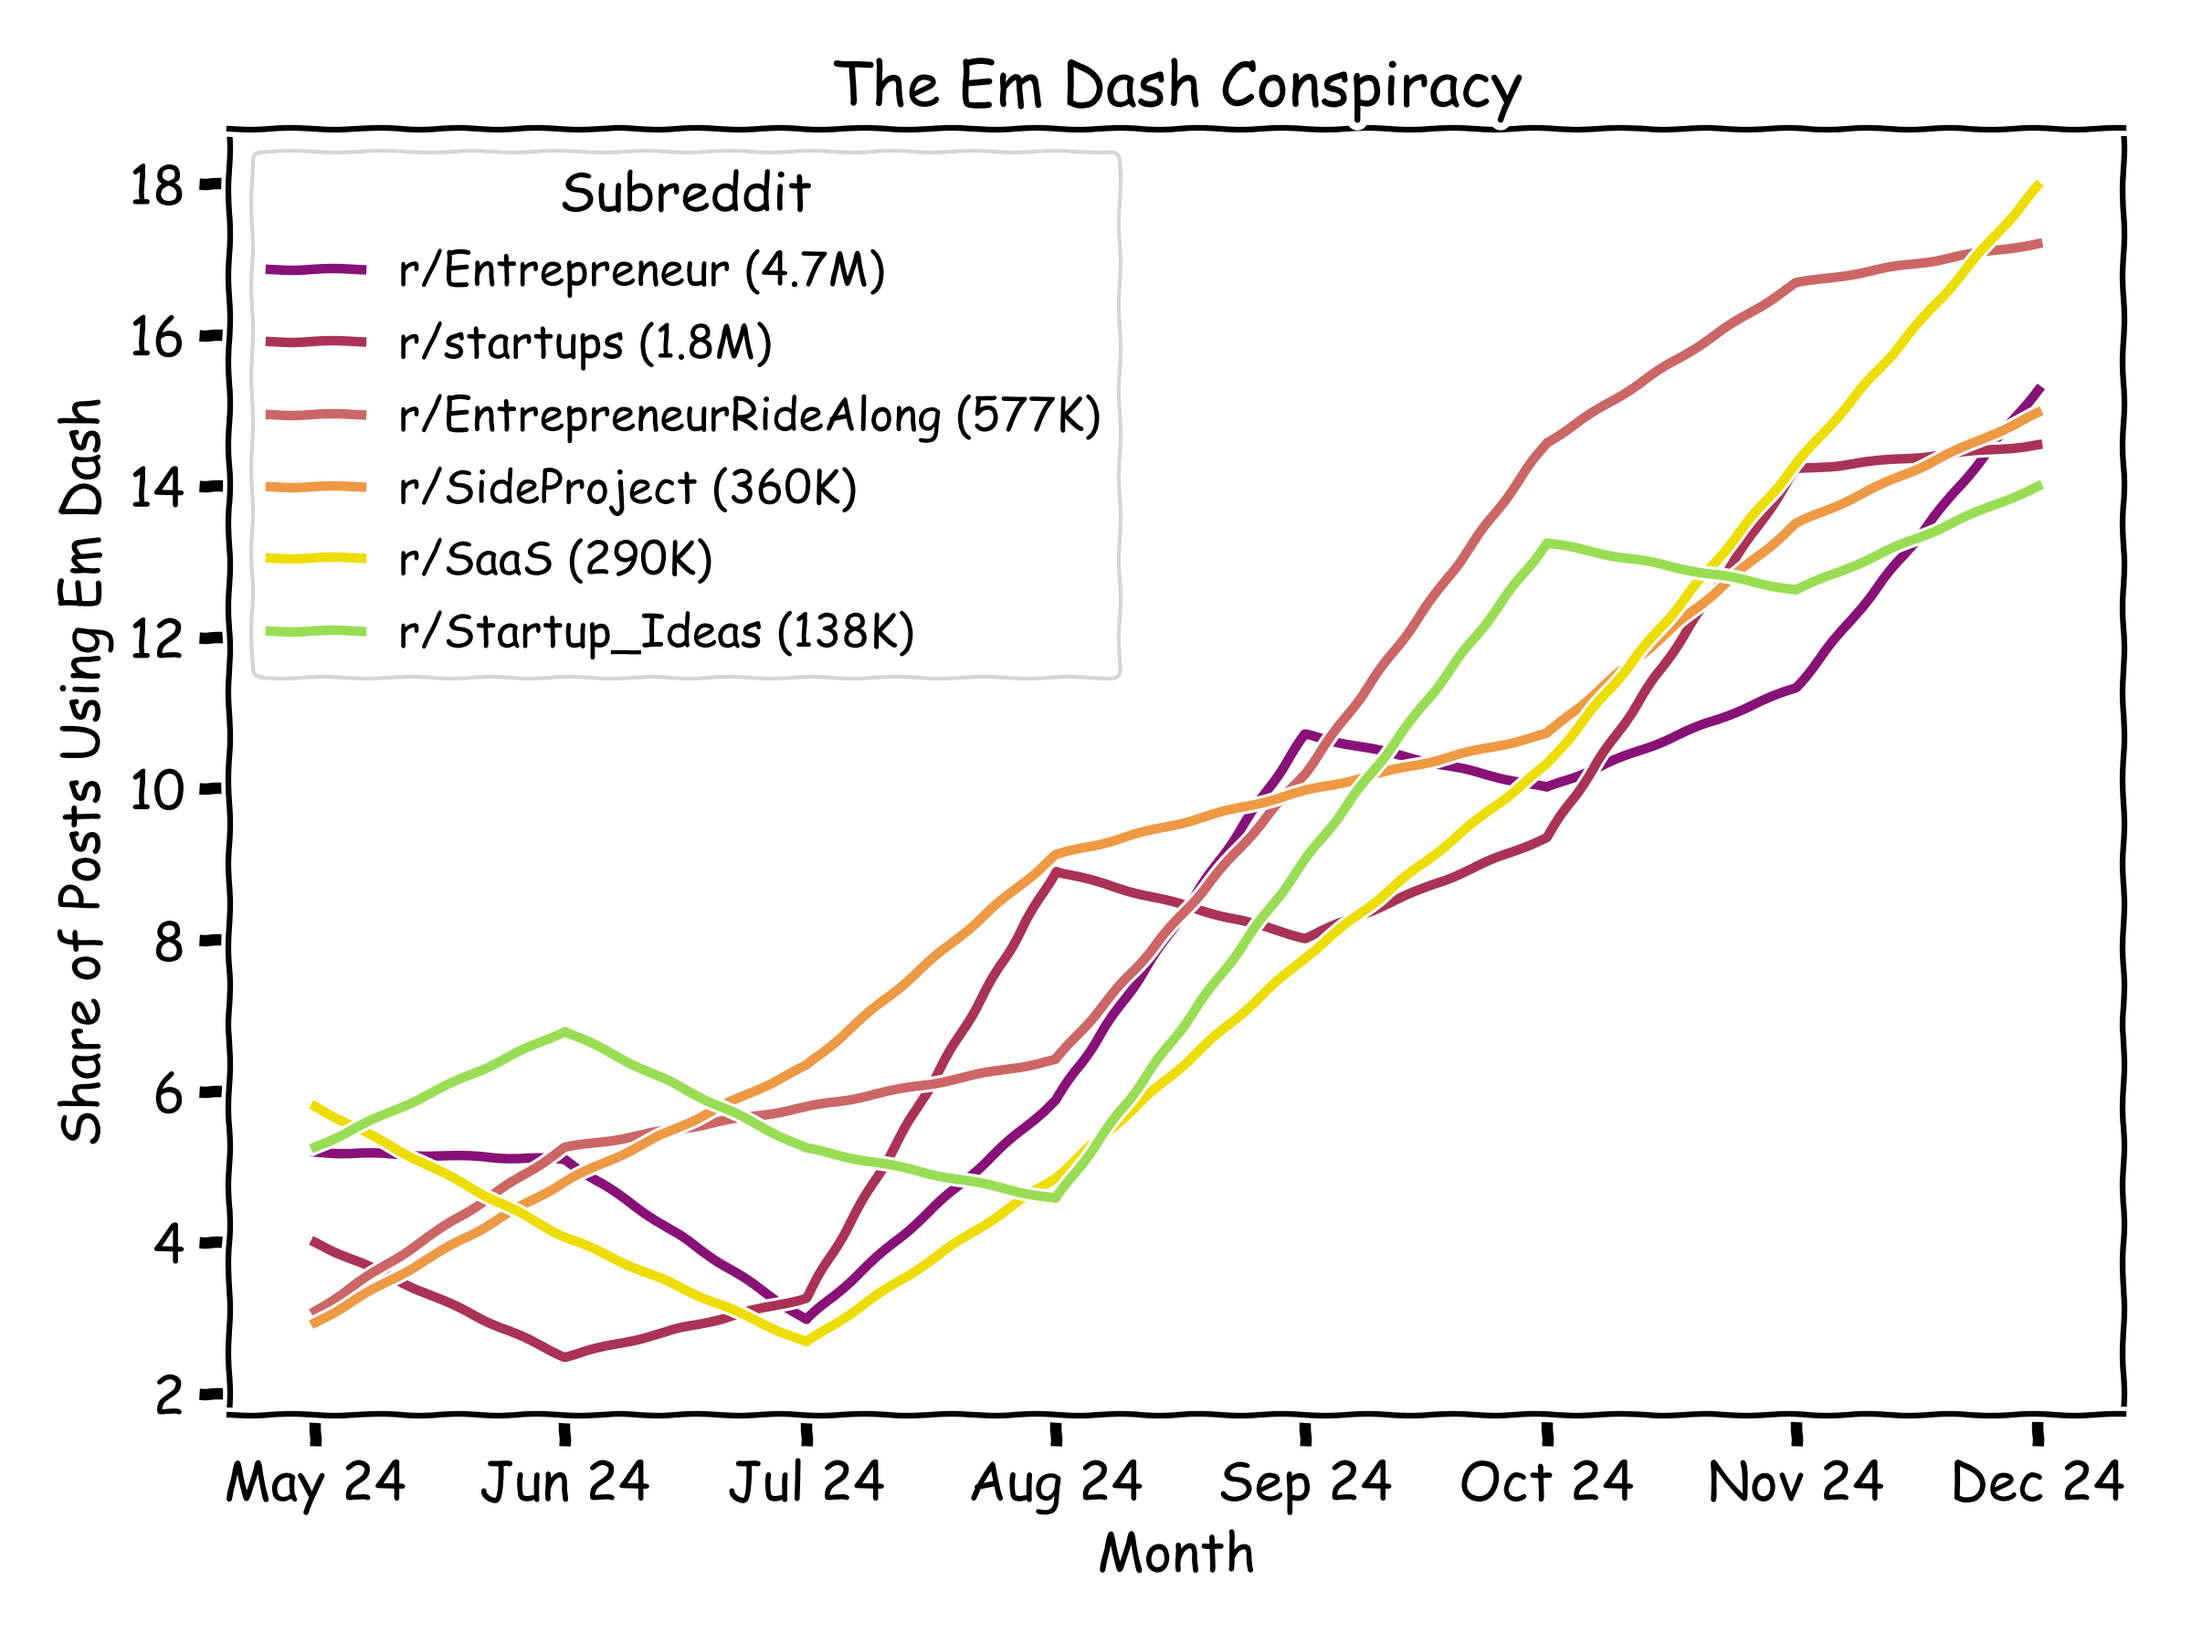
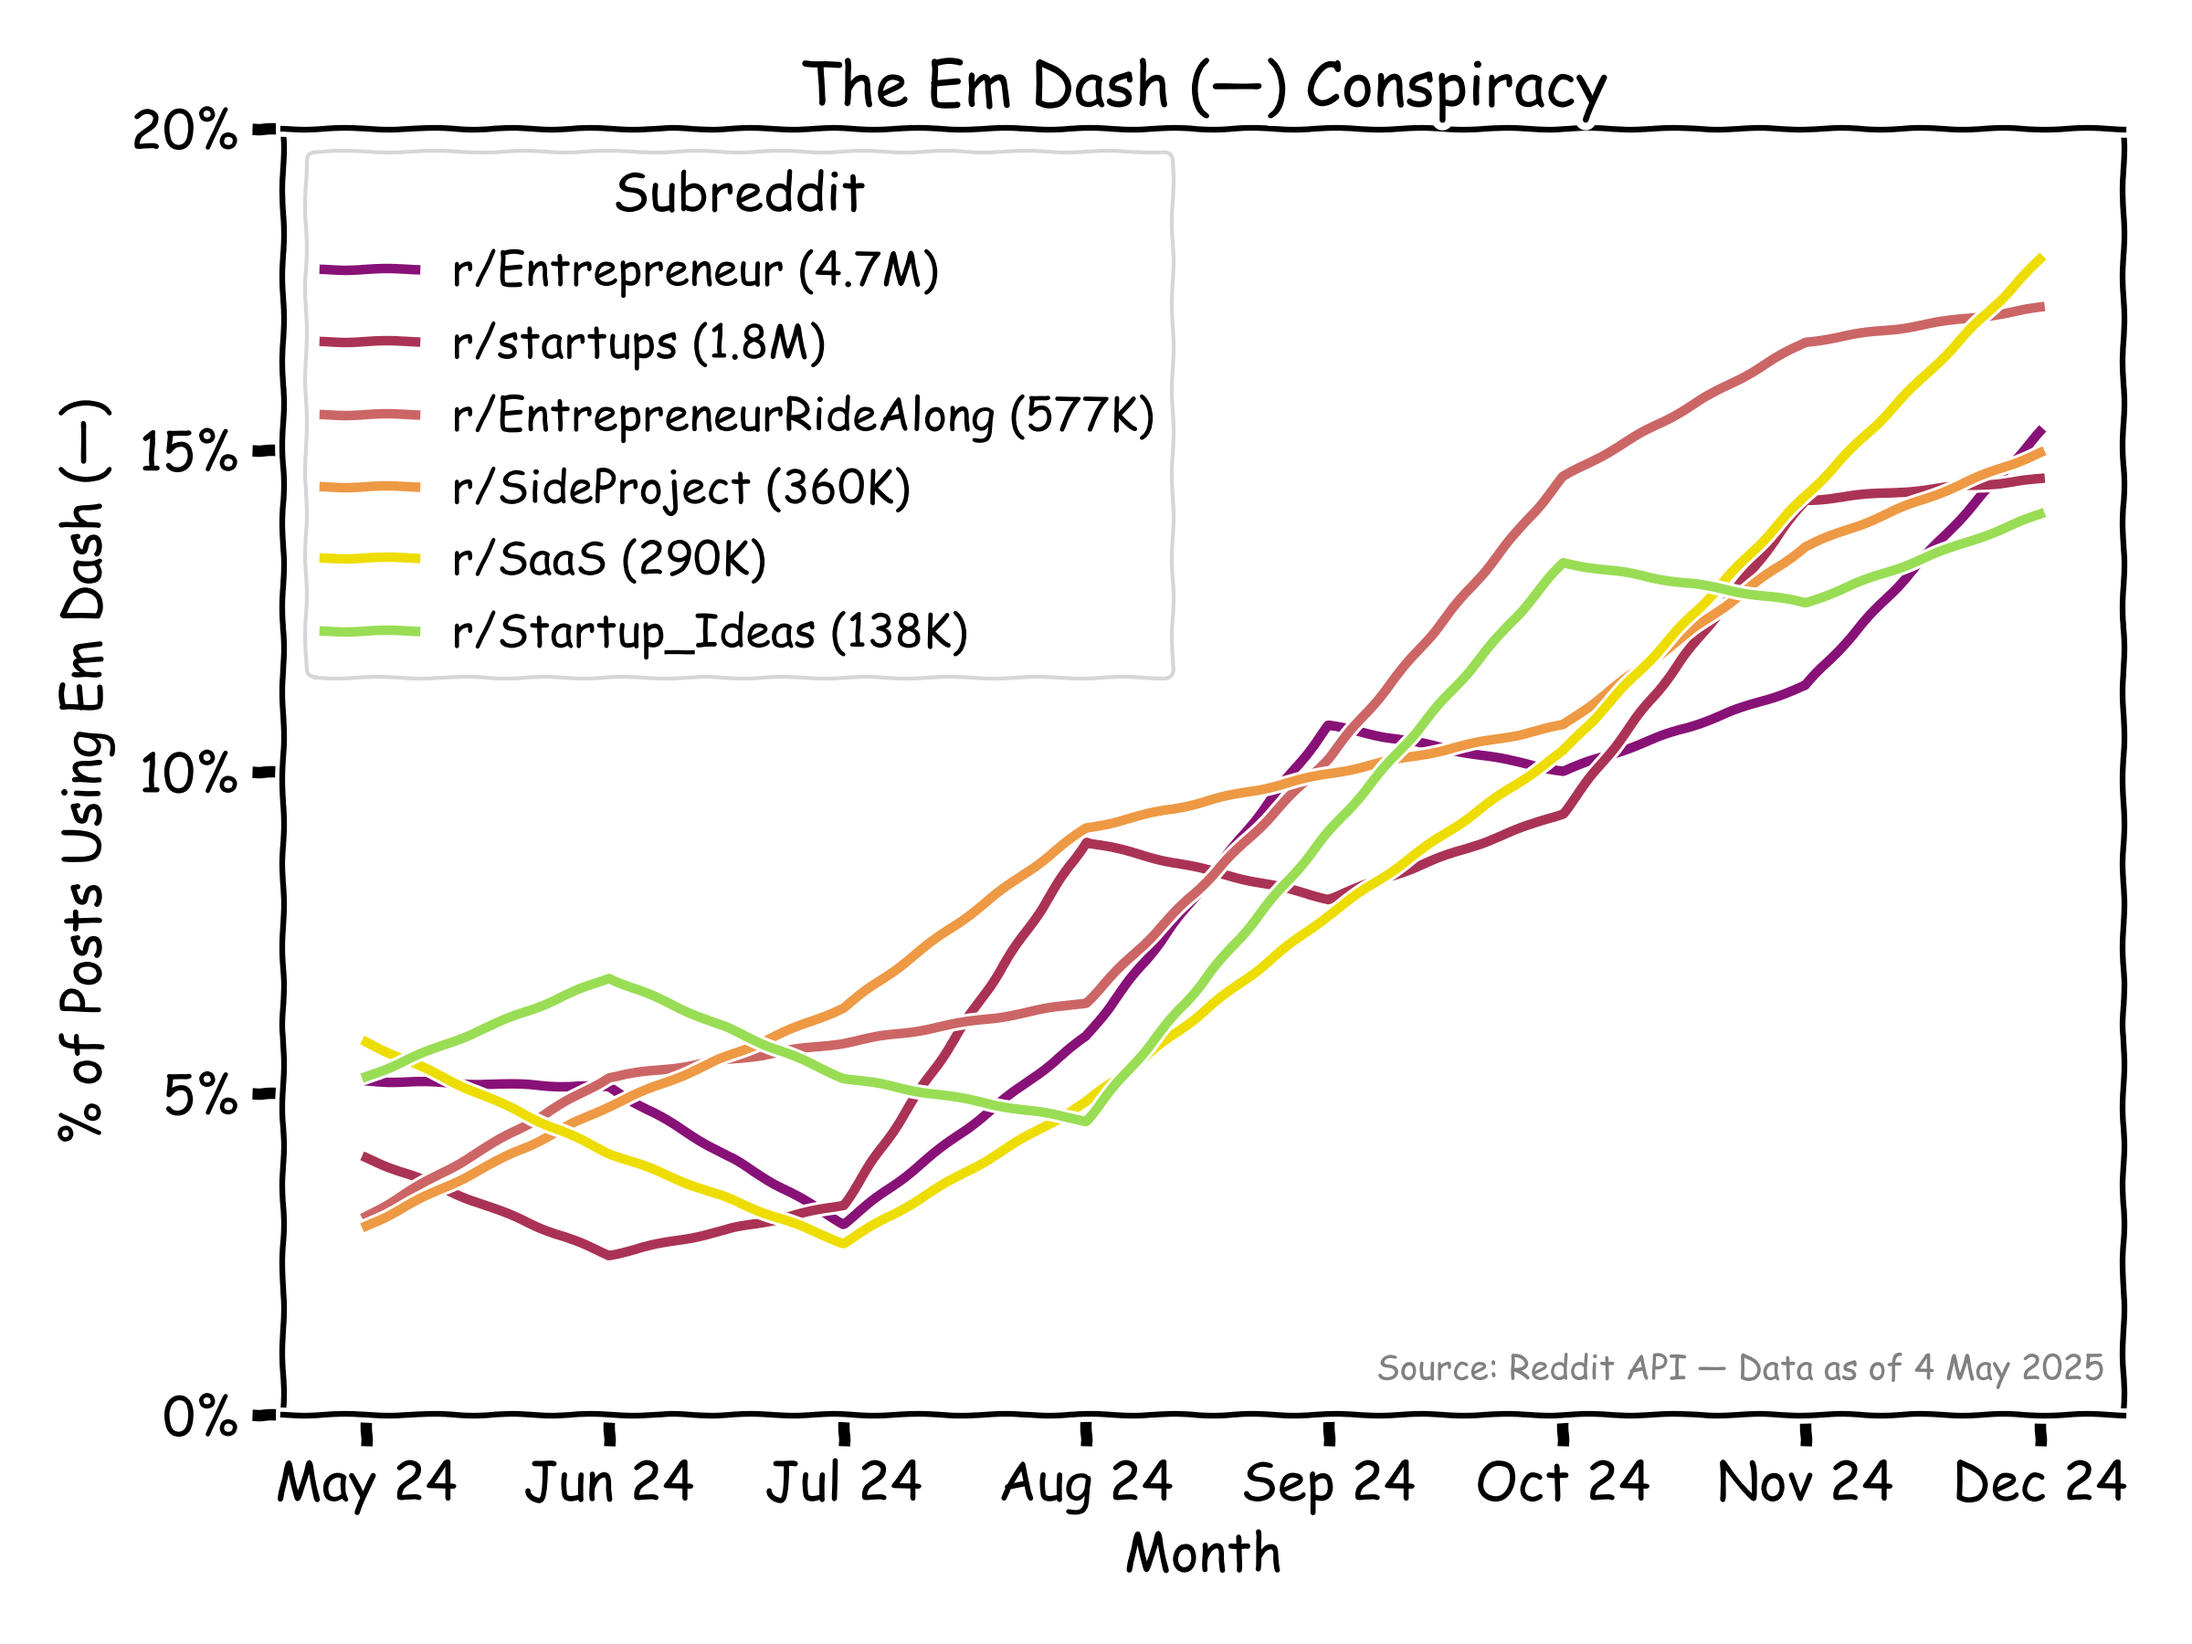
Better format graph

diff --git a/em_dash_conspiracy/plot.py b/em_dash_conspiracy/plot.py
@@ -3,7 +3,9 @@ from pathlib import Path
 import pandas as pd
 import matplotlib.pyplot as plt
 from matplotlib.dates import DateFormatter
+from matplotlib.ticker import PercentFormatter
 
+# https://iamkate.com/data/12-bit-rainbow/
 PALETTE = [
     "#817",
     "#a35",
@@ -60,10 +62,26 @@ def plot_em_dash_usage(
                 lw=2.5,
             )
 
-        ax.set_title("The Em Dash Conspiracy", fontsize=16)
-        ax.set_ylabel("Share of Posts Using Em Dash")
+        ax.set_title("The Em Dash (—) Conspiracy", fontsize=16)
+        ax.set_ylabel("% of Posts Using Em Dash (—)", fontsize=14)
         ax.set_xlabel("Month")
-        ax.xaxis.set_major_formatter(DateFormatter("%b %y"))  # <- Add this line
+        ax.set_ylim(0, 20)
+        ax.set_yticks([0, 5, 10, 15, 20])
+        ax.yaxis.set_major_formatter(PercentFormatter(xmax=100, decimals=0))
+        ax.xaxis.set_major_formatter(DateFormatter("%b %y"))
         ax.legend(title="Subreddit", fontsize=12)
+        ax.text(
+            0.99,
+            0.02,
+            "Source: Reddit API — Data as of 4 May 2025",
+            transform=ax.transAxes,
+            ha="right",
+            va="bottom",
+            fontsize=9,
+            color="gray",
+        )
+
+        plt.subplots_adjust(bottom=0.2)
+
         plt.tight_layout()
         plt.savefig(outfile, dpi=300)
